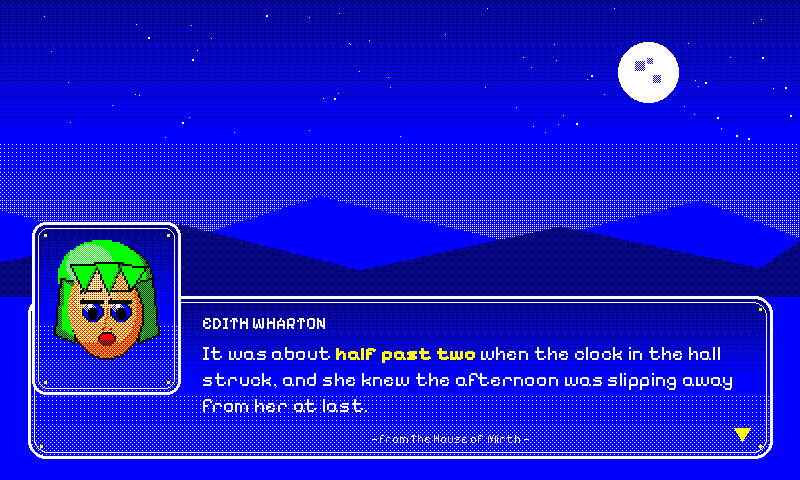
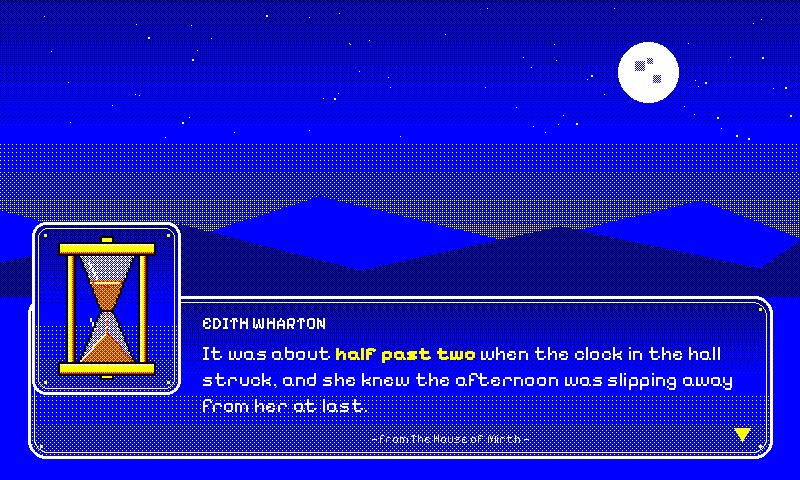
Replace chrono portrait with a shaded hourglass
A hand-built frontal face never reads as SNES on a 6-ink panel. Swap the
portrait for an ornate, shaded hourglass: thematically exact for chrono
(= time) and geometric, so it renders cleanly while the tonal-dither
ramps do real work. Brass frame (cream/gold/bronze Y+W / Y / R+Y) with
finials + shaded side posts, sky-tinted glass bulbs with specular
streaks, and amber sand draining from a dished surface through the neck
onto a mound in the lower bulb. Same shape-sculpt + dither-map engine,
renamed face->hourglass (_CHRONO_ART_TONES / _chrono_build_hourglass /
_chrono_paint_hourglass). CLAUDE.md + chrono preview regenerated.

https://claude.ai/code/session_015AgeG1R44o6rjtc71p48wz

Changed region(s): [[0.0625, 0.4688, 0.2188, 0.8125]]

diff --git a/idle_hours/render_quote.py b/idle_hours/render_quote.py
@@ -14868,37 +14868,32 @@ def render_questline_frame(time_str: str, quote_row: dict, width: int, height: i
 # carries the time. ("chrono" = time; the SNES Square-JRPG era is also the
 # Chrono Trigger era, so the name doubles as the literary-clock tie.)
 
-# Portrait face — a shaded 16-bit anime hero the way an FF6 / Chrono Trigger
-# cutscene frames the speaker beside the dialogue. It is *not* a flat
-# one-ink-per-pixel sprite (that reads as 8-bit, which is questline's job);
-# instead each material carries a multi-tone shading ramp synthesised from the
-# six inks via per-pixel dithering — skin highlight→mid→shadow, hair
-# highlight→mid→shadow — so the head reads as a rounded, lit volume. The face
-# is sculpted with vector shapes at a low logical resolution (see
-# `_chrono_build_face`), drawn into a tone-indexed 'L' image, then upscaled and
-# mapped to its dithered Spectra-6 tones at panel resolution.
+# Portrait motif — an ornate hourglass, the "portrait" an FF6 / Chrono Trigger
+# cutscene frames beside the dialogue. A hand-built frontal face reads as crude
+# on a 6-ink panel; an hourglass is geometric (renders cleanly), is
+# thematically exact for `chrono` (= time), and lets the tonal-dither trick do
+# real work: each material carries a multi-tone shading ramp synthesised from
+# the six inks so the brass, glass and sand read as rounded, lit volumes rather
+# than flat shapes. Sculpted with vector shapes at a low logical resolution
+# (see `_chrono_build_hourglass`), drawn into a tone-indexed 'L' image, then
+# upscaled and dither-mapped to its Spectra-6 tones at panel resolution.
 #
 # Tone index → fill rule. "solid" = one ink; "mix2"/"mix3" = ordered-Bayer
-# dithers (the same recipes documented in spectra6_color_recipes.md): peach
-# skin (R+Y+W), tan/maroon skin shadow (R+Y / R+K), mint/green/forest hair
-# (G+W / G / G+K), sky-blue iris highlight (B+W), maroon lip shadow (R+K).
-_CHRONO_FACE_TONES = {
-    1: ("solid", SPECTRA6["black"]),
-    2: ("mix3", SPECTRA6["red"], SPECTRA6["yellow"], SPECTRA6["white"], 0.22, 0.30),  # skin highlight
-    3: ("mix3", SPECTRA6["red"], SPECTRA6["yellow"], SPECTRA6["white"], 0.40, 0.38),  # skin mid (peach)
-    4: ("mix2", SPECTRA6["red"], SPECTRA6["yellow"], 0.40),                           # skin shadow (tan)
-    5: ("mix2", SPECTRA6["red"], SPECTRA6["black"], 0.5),                             # skin deep (maroon)
-    6: ("mix2", SPECTRA6["green"], SPECTRA6["white"], 0.5),                           # hair highlight (mint)
-    7: ("solid", SPECTRA6["green"]),                                                  # hair mid
-    8: ("mix2", SPECTRA6["green"], SPECTRA6["black"], 0.5),                           # hair shadow (forest)
-    9: ("solid", SPECTRA6["white"]),                                                  # sclera / catch-light
-    10: ("solid", SPECTRA6["blue"]),                                                  # iris
-    11: ("mix2", SPECTRA6["blue"], SPECTRA6["white"], 0.5),                           # iris highlight (sky)
-    12: ("solid", SPECTRA6["red"]),                                                   # lips
-    13: ("mix2", SPECTRA6["red"], SPECTRA6["black"], 0.5),                            # lip shadow (maroon)
+# dithers (the recipes in spectra6_color_recipes.md): cream/gold/bronze brass
+# (Y+W / Y / R+Y), amber sand (R+Y at varying density), sky-tint glass (B+W).
+_CHRONO_ART_TONES = {
+    1: ("solid", SPECTRA6["black"]),                          # outline
+    2: ("mix2", SPECTRA6["yellow"], SPECTRA6["white"], 0.55),  # brass highlight (cream)
+    3: ("solid", SPECTRA6["yellow"]),                         # brass mid (gold)
+    4: ("mix2", SPECTRA6["red"], SPECTRA6["yellow"], 0.25),    # brass shadow (bronze)
+    5: ("mix2", SPECTRA6["yellow"], SPECTRA6["white"], 0.6),   # sand highlight (pale)
+    6: ("mix2", SPECTRA6["red"], SPECTRA6["yellow"], 0.38),    # sand mid (amber)
+    7: ("mix2", SPECTRA6["red"], SPECTRA6["yellow"], 0.20),    # sand shadow (deep amber)
+    8: ("mix2", SPECTRA6["blue"], SPECTRA6["white"], 0.55),    # glass tint (sky)
+    9: ("solid", SPECTRA6["white"]),                          # specular highlight
 }
-_CHRONO_FACE_SIZE = (58, 70)  # logical pixels before upscale
-_CHRONO_FACE_SCALE = 2        # → 116×140 px on the panel
+_CHRONO_ART_SIZE = (56, 72)  # logical pixels before upscale
+_CHRONO_ART_SCALE = 2        # → 112×144 px on the panel
 
 _CHRONO_SKY_BOTTOM = 296
 _CHRONO_WINDOW = (28, 296, 772, 458)
@@ -14906,8 +14901,8 @@ _CHRONO_PORTRAIT = (32, 222, 180, 394)
 
 
 def _chrono_tone_color(idx: int, x: int, y: int):
-    """Resolve a face tone index to its Spectra-6 (possibly dithered) colour."""
-    rule = _CHRONO_FACE_TONES[idx]
+    """Resolve an art tone index to its Spectra-6 (possibly dithered) colour."""
+    rule = _CHRONO_ART_TONES[idx]
     kind = rule[0]
     if kind == "solid":
         return rule[1]
@@ -14919,65 +14914,65 @@ def _chrono_tone_color(idx: int, x: int, y: int):
     return ink_a if cell < round(da * 16) else (ink_b if cell < round((da + db) * 16) else ink_c)
 
 
-def _chrono_build_face() -> Image.Image:
-    """Sculpt the head as a tone-indexed ('L') logical image (light upper-left).
+def _chrono_build_hourglass() -> Image.Image:
+    """Sculpt an ornate hourglass as a tone-indexed ('L') logical image.
 
-    A shaded sphere for the skin (shadow base → mid offset up-left → highlight),
-    layered hair (shadow/mid/highlight dome + side locks), anime eyes (sclera,
-    iris, iris highlight, pupil, catch-light, lash, brow), a small shaded mouth,
-    and a tidy three-lock fringe. The caller upscales and dither-maps the tones.
+    A brass frame (capped top/bottom with finials + two shaded side posts), two
+    sky-tinted glass bulbs with specular streaks, and amber sand — draining from
+    a dished surface in the upper bulb, through the neck as a thin stream, onto a
+    mound in the lower bulb. Light from the upper-left (cream highlights up-left,
+    bronze / deep-amber shadows down-right). The caller upscales + dither-maps.
     """
-    lw, lh = _CHRONO_FACE_SIZE
+    lw, lh = _CHRONO_ART_SIZE
     img = Image.new("L", (lw, lh), 0)
     d = ImageDraw.Draw(img)
     K = 1
-    # Hair back: shaded dome + side locks.
-    d.ellipse((6, 2, 52, 40), fill=8, outline=K)
-    d.ellipse((5, 1, 48, 36), fill=7)
-    d.ellipse((9, 3, 32, 24), fill=6)
-    d.polygon([(6, 20), (3, 48), (13, 52), (15, 22)], fill=8, outline=K)
-    d.polygon([(8, 22), (7, 45), (12, 48), (13, 24)], fill=7)
-    d.polygon([(52, 20), (55, 48), (45, 52), (43, 22)], fill=8, outline=K)
-    # Face: shaded sphere (shadow base → mid up-left → highlight up-left).
-    d.ellipse((11, 16, 47, 60), fill=4, outline=K)
-    d.ellipse((10, 14, 43, 55), fill=3)
-    d.ellipse((14, 18, 33, 41), fill=2)
-    d.chord((15, 34, 43, 58), 25, 150, fill=4)  # under-chin shadow
-    # Nose: a soft shadow + two nostril marks.
-    d.line((29, 35, 28, 44), fill=4, width=1)
-    d.point((27, 45), fill=5)
-    d.point((31, 45), fill=5)
-    # Eyes.
-    for ex in (22, 36):
-        d.ellipse((ex - 5, 32, ex + 5, 41), fill=9, outline=K)  # sclera
-        d.ellipse((ex - 4, 32, ex + 4, 41), fill=10)            # iris
-        d.ellipse((ex - 4, 32, ex + 1, 37), fill=11)            # iris highlight
-        d.ellipse((ex - 2, 35, ex + 2, 40), fill=1)             # pupil
-        d.rectangle((ex - 2, 33, ex - 1, 34), fill=9)           # catch-light
-        d.line((ex - 5, 31, ex + 5, 31), fill=K, width=2)       # upper lash
-        d.line((ex - 5, 30, ex - 6, 32), fill=K, width=1)       # outer corner
-        d.line((ex - 6, 26, ex + 4, 25), fill=K, width=2)       # brow
-    # Mouth.
-    d.ellipse((25, 47, 33, 52), fill=12, outline=K)
-    d.chord((25, 49, 33, 53), 0, 180, fill=13)
-    # Fringe: three clean bang-locks with shadowed right edges + a dome shine.
-    d.polygon([(11, 13), (25, 13), (18, 27)], fill=7, outline=K)
-    d.polygon([(23, 12), (37, 12), (30, 28)], fill=7, outline=K)
-    d.polygon([(35, 13), (49, 14), (41, 26)], fill=7, outline=K)
-    d.line((24, 14, 18, 26), fill=8, width=1)
-    d.line((36, 13, 30, 27), fill=8, width=1)
-    d.line((11, 6, 22, 4), fill=6, width=2)
+    top_bulb = [(14, 9), (42, 9), (31, 37), (25, 37)]
+    bot_bulb = [(25, 37), (31, 37), (42, 63), (14, 63)]
+    # Glass bulbs (sky tint).
+    d.polygon(top_bulb, fill=8)
+    d.polygon(bot_bulb, fill=8)
+    # Sand: dished surface in the upper bulb, a mound in the lower, a thin stream.
+    d.polygon([(20, 22), (36, 22), (31, 37), (25, 37)], fill=6)
+    d.line((20, 22, 28, 25), fill=7, width=1)
+    d.line((36, 22, 28, 25), fill=7, width=1)
+    d.line((22, 23, 34, 23), fill=5, width=1)
+    d.polygon([(14, 63), (42, 63), (28, 48)], fill=6)
+    d.line((28, 48, 15, 62), fill=5, width=1)
+    d.line((29, 49, 41, 62), fill=7, width=1)
+    d.line((28, 37, 28, 48), fill=6, width=1)
+    d.point((28, 41), fill=5)
+    d.point((28, 45), fill=5)
+    # Glass specular streaks (upper-left of each bulb).
+    d.line((19, 13, 23, 21), fill=9, width=1)
+    d.point((20, 23), fill=9)
+    d.line((20, 41, 22, 46), fill=9, width=1)
+    # Glass outline.
+    d.polygon(top_bulb, outline=K)
+    d.polygon(bot_bulb, outline=K)
+    # Brass side posts (cream highlight left, bronze shadow right).
+    for px0, px1 in ((8, 12), (44, 48)):
+        d.rectangle((px0, 8, px1, 64), fill=3, outline=K)
+        d.line((px0 + 1, 9, px0 + 1, 63), fill=2, width=1)
+        d.line((px1 - 1, 9, px1 - 1, 63), fill=4, width=1)
+    # Brass caps (cream highlight top, bronze shadow bottom) + finials.
+    for cy0, cy1 in ((3, 9), (63, 69)):
+        d.rectangle((4, cy0, 52, cy1), fill=3, outline=K)
+        d.line((5, cy0 + 1, 51, cy0 + 1), fill=2, width=1)
+        d.line((5, cy1 - 1, 51, cy1 - 1), fill=4, width=1)
+    d.rectangle((25, 0, 31, 3), fill=3, outline=K)
+    d.rectangle((25, 69, 31, 71), fill=3, outline=K)
     return img
 
 
-def _chrono_paint_face(image: Image.Image, ox: int, oy: int) -> None:
-    """Upscale the logical face and paint it at (ox, oy), dither-mapping tones.
+def _chrono_paint_hourglass(image: Image.Image, ox: int, oy: int) -> None:
+    """Upscale the logical hourglass and paint it at (ox, oy), dither-mapping tones.
 
     The dither is sampled at absolute panel coordinates so the synthesised
-    skin/hair tones share a continuous Bayer phase with the rest of the frame.
+    brass / sand / glass tones share a continuous Bayer phase with the frame.
     """
-    big = _chrono_build_face().resize(
-        (_CHRONO_FACE_SIZE[0] * _CHRONO_FACE_SCALE, _CHRONO_FACE_SIZE[1] * _CHRONO_FACE_SCALE),
+    big = _chrono_build_hourglass().resize(
+        (_CHRONO_ART_SIZE[0] * _CHRONO_ART_SCALE, _CHRONO_ART_SIZE[1] * _CHRONO_ART_SCALE),
         Image.NEAREST,
     )
     bw, bh = big.size
@@ -15116,15 +15111,15 @@ def _chrono_window_border(draw: ImageDraw.ImageDraw, rect: tuple[int, int, int, 
 
 
 def _chrono_paint_portrait(image: Image.Image, draw: ImageDraw.ImageDraw) -> None:
-    """Character-portrait sub-window (a smaller FF window) with the shaded face."""
+    """Portrait sub-window (a smaller FF window) holding the shaded hourglass."""
     rect = _CHRONO_PORTRAIT
     _chrono_window_fill(image, rect, radius=14)
     _chrono_window_border(draw, rect, radius=14)
-    face_w = _CHRONO_FACE_SIZE[0] * _CHRONO_FACE_SCALE
-    face_h = _CHRONO_FACE_SIZE[1] * _CHRONO_FACE_SCALE
+    art_w = _CHRONO_ART_SIZE[0] * _CHRONO_ART_SCALE
+    art_h = _CHRONO_ART_SIZE[1] * _CHRONO_ART_SCALE
     cx = (rect[0] + rect[2]) // 2
     cy = (rect[1] + rect[3]) // 2
-    _chrono_paint_face(image, cx - face_w // 2, cy - face_h // 2)
+    _chrono_paint_hourglass(image, cx - art_w // 2, cy - art_h // 2)
 
 
 def _chrono_paint_dialogue(image: Image.Image, draw: ImageDraw.ImageDraw, quote_row: dict, rect: tuple[int, int, int, int]) -> None:

diff --git a/CLAUDE.md b/CLAUDE.md
@@ -559,7 +559,7 @@ Imports `pick_quote` in-process (`pick_quote_module.select_quote`) and lays out 
   - `cartograph` (cream-washed white / black IM Fell English Italic body / red matched-phrase, hand-drawn antique cartographer's chart — a literary-layout theme with a heavy `draw_cartograph_border` decoration rather than a custom-render frame. White-paper ground warmed by a cream Y+W Bayer Layer-0 wash plus a sparse R+G sepia foxing scatter (the same two-pass aged-paper recipe `newsprint` / `tarot` use, here over cream); two diagonal-corner coastline silhouettes in R+G sepia (a 26-vertex two-octave ragged edge — a slow swell carving broad bays / headlands plus a fast jitter for the fractal nibble of a real engraved shoreline, so the land reads as a coastline with inlets and capes rather than a smooth filled triangle; each landmass also carries interior **topographic form-lines** — real terrain relief traced as marching-squares iso-lines over a synthetic height field (3–4 deterministic Gaussian hills + basins summed across the land's bbox, contoured at six evenly-spaced elevation levels), with each marching-squares cell skipped unless its centre falls inside the land silhouette (`_point_in_polygon`), so the contours stay on the sepia landmass and read as the wavy multi-peak nested loops of a real topographic chart rather than concentric copies of the coastline — painted in black so the red→green sepia post-pass leaves them as crisp engraved relief lines over the land fill), a 32-px R+Y tangerine compass rose at the bottom-left, a small black sea-serpent margin doodle ("here be dragons"), three hand-lettered italic Latin place labels in sepia, and a `clear_rect` knockout of the body region to a clean cream cartouche with a doubled red+black rubricated rule and registration-cross corner accents (the same knockout `kanagawa` / `blueprint` use). The matched phrase picks IM Fell *Regular* (upright Roman) in solid red so differentiation arrives via colour + roman/italic split rather than weight — the canonical "place name upright, body legend italic" cartographic convention. Completes the navigation trio alongside `firmament` (celestial atlas) and `astrarium` (instrument dashboard). Saturation tier `0.5`.)
   - `vitrail` (jewel-glass field / black lead-came / clear white-glass quote cartouche, Gothic stained-glass cathedral window — the sixth theme to bypass the literary layout entirely, dispatching from `render` into its own `render_vitrail_frame`. The "take full advantage of the hardware" theme: a tall lancet window whose black lead-came tracery (`_vitrail_paint_lead_came`) divides the canvas into an irregular hand-leaded mosaic of jewel-toned glass shapes that deliberately exercise the FULL synthesised Spectra-6 palette — the four saturated native inks plus amber/gold (R+Y 5/8:3/8 tangerine), royal purple (R+B 1:1), teal (G+B 5/8:3/8), plum (R+B+K 3-ink), lavender (R+B+W 3-ink), rose/coral (R+W), sky-blue (B+W), olive (Y+G), mint (G+W), navy (B+K) and forest (G+K) — drawn deterministically from the module-level `_VITRAIL_GLASS` spec list. `_vitrail_build_panes` starts from a 6×5 lattice, pins the border vertices to the frame but nudges every interior vertex off-grid by a seeded RNG (`_VITRAIL_SEED` / `_VITRAIL_JITTER`), then splits ≈half the cells (`_VITRAIL_SPLIT_PROB`) along one diagonal into two triangular shards with different tones — so the field reads as varied quadrilaterals and triangles rather than a regular grid. Each shape is filled via `_vitrail_fill_polygon` (a 1-bit polygon mask + the per-pixel `_vitrail_pane_ink`, whose solid / 2-ink / 3-ink branches mirror `_fill_swatch_stipple` / `_fill_swatch_stipple_3way` against absolute x/y so the Bayer phase stays continuous across seams), and `_vitrail_paint_lead_came` then strokes every shape's closed outline as a *beveled raised bar* — three offset passes per seam (white specular highlight offset up-left = the lit top of the rounded lead, black drop shadow offset down-right = the shadow the raised bar casts onto the recessed glass, black core last) modelling light from the upper-left, so the came reads as a physical 3D frame standing proud of the glass rather than flat lines (`_VITRAIL_CAME_BEVEL` sets the offset). The outer stone surround (`_vitrail_paint_outer_frame`) and the central cartouche frame carry the same lit-top-left / shadowed-bottom-right lip so the clear glass reads as recessed behind raised lead. `_vitrail_paint_shimmer` then sweeps a couple of diagonal specular sheen bands across the filled glass (white stippled in at a Bayer density peaking on each band's centreline and tapering to its edges, skipping black/white pixels) so the panes read as a glossy reflective surface catching light rather than flat colour fields — the field-wide pass runs before the came / cartouche so those paint cleanly over it, and a second clipped pass re-applies the *same* streaks (band positions are always derived from the full window field, so they stay aligned) to the rose-window glass after the medallion is painted, so its petals catch the light continuously with the surrounding panes. A pointed lancet arch is carved into the top by filling the two top-corner spandrels black (`_vitrail_paint_arch_spandrels`); a rose-window medallion (`_vitrail_paint_rose_window`) at top-centre divides a stone-ringed glass disc into twelve jewel-tone petal wedges by radial came and carries the Roman-numeral hour (Uncial Antiqua, via the shared `_TAROT_ROMAN_NUMERALS` dict) at its clear-glass hub. The literary quote glows in a clear white-glass central cartouche (`_vitrail_paint_quote_cartouche`) knocked out of the colored field with a solid-white wipe — not a wash — so the dark Liberation Serif body and the **violet-glass matched phrase (R+B 1:1 via `draw_text_dithered`)** stay legible over the busy panes; author · title attribution sits at the cartouche foot in the same Liberation Serif body face (*not* the Uncial Antiqua ornament chain — the uncial's open letterforms shatter into ambiguous strokes at the 15px byline size after `snap_image_to_palette`, the same hairline-at-small-size failure documented for astrarium / tarot, so the attribution is rendered in the legible body serif instead). The digital HH:MM is never surfaced as plain digits — the matched phrase and the rose-window numeral carry the time. Fully deterministic (no RNG) so re-renders of a given time are byte-identical. The palette in `THEMES` is a plain white/black ground with a blue (violet-glass) accent, consumed only by the goodnight / source-card fall-through paths; the frame itself hardcodes Spectra-6 inks. Saturation tier `0.7` (the colored glass dominates the canvas; the white cartouche has no chroma to scale).)
   - `questline` (black night-sky ground / white body / yellow matched-phrase, Press Start 2P pixel face — an 8/16-bit JRPG dialogue scene, the seventh theme to bypass the literary layout entirely, dispatching from `render` into its own `render_questline_frame`. The whole composition is built from chunky pixels: a sky-blue (B+W checkerboard) sky band over a solid-green hill band with a forest-green (G+K) lower lip, a yellow eight-ray sun and two white pixel clouds in the top margin (`_questline_paint_sky`), and a small caped hero sprite — an 8×10 pixmap (`_QUESTLINE_HERO`) scaled ×7 with a red cap / white face / blue tunic / black boots, standing on the hill line at the right (`_questline_paint_sprite`). The quote is presented as **on-screen NPC dialogue** inside a bordered box owning the bottom ~45% of the canvas (`_questline_paint_box`): a navy (blue+black checkerboard) fill with a white double pixel frame (4-px outer rule + an inset inner rule, square corners — the pixel-authentic dialogue-box look, no smooth arcs). The **author becomes the speaker** on a small framed nameplate tab straddling the box's top-left edge (`_questline_paint_nameplate`, uppercased, truncated past 22 chars, yellow-on-navy; falls back to `NARRATOR` when the row has no author so a bare-text quote still gets a speaker). The body text is **left-aligned** (reads as dialogue, not centred prose) via the shared `fit_quote` / `wrap_styled_text` pipeline at `font_max=15` / `font_min=8` / `line_height_mult=1.6` — Press Start 2P reports descent 0, so the generous multiplier supplies the inter-line gap the bitmap cell omits — with the matched time-phrase painted in the `accent` yellow (the classic RPG "highlighted keyword" tint; solid, no stipple reroute needed). A static white ▼ "press to continue" arrow sits in the box's bottom-right (`_questline_paint_arrow`, static — eInk), and a `— from {Title} —` footer runs along the box's bottom inner margin (`_questline_paint_footer`, centred, size 8, truncated to clear the arrow; skipped when the row has no title). Like `marquee`, the digital HH:MM is **never surfaced** — the matched phrase in the dialogue carries the time, which is the whole point of a quote-based fuzzy clock; `time_str` is `del`-asserted at the top of `render_questline_frame` and retained only for dispatch-signature uniformity. Press Start 2P (CodeMan38, OFL — the only pixel/bitmap face in the bundle) carries the body, the matched-phrase accent, and the chrome alike; single weight, so the matched-phrase role reuses Regular and earns its differentiation from the yellow accent alone (comic / dispatch / atomic discipline). Saturation tier `0.7` (dark / saturated ground). Since it still displays a quote it stays in the button-B / auto / random rotation — only `diags` (which surfaces swatches instead of a quote) is in `RANDOM_EXCLUDED_THEMES`. No `_DEBUG_LABEL_RIGHT_INSET` entry — the custom frame paints its own composition and ignores `mode`, like the other frame themes.)
-  - `chrono` (twilight-blue gradient sky / white body / yellow matched-phrase, Pixelify Sans — a **16-bit SNES JRPG** dialogue scene (Final Fantasy VI / Chrono Trigger era), the eighth theme to bypass the literary layout entirely, dispatching from `render` into its own `render_chrono_frame`. The deliberate companion / step-up to the 8-bit `questline`: where questline is flat NES bands + chunky monospace Press Start 2P, chrono shows the three things 8-bit hardware couldn't — **gradient-shaded backgrounds**, a **translucent-blue gradient dialogue window with a rounded beveled border**, and a **character portrait sub-window** — in the finer, multi-weight Pixelify Sans. `_chrono_paint_sky` paints an atmospheric twilight: a per-row Bayer **density-ramp gradient** (deep navy B+K at the zenith fading to pure blue at mid-sky, then a rising white-dither haze toward the horizon — the continuous tone flat 8-bit bands can't produce), ~70 deterministic white stars (`_CHRONO_STAR_SEED`, cleared from the moon's disc), a pale white moon with faint sky-blue (B+W) craters, and a **two-range mountain silhouette** (a solid-blue back range + a navy B+K-dithered front range via `_chrono_fill_poly`) for parallax depth. The quote sits in the iconic **FF blue window** (`_chrono_window_fill` paints a navy→blue→faint-sky-blue vertical gradient onto a private tile and pastes it through a rounded-rectangle mask so the corners read soft; `_chrono_window_border` strokes a white rounded double frame with small yellow corner-accent ticks). A **portrait sub-window** (`_chrono_paint_portrait`, same window recipe at smaller scale) carries a properly *shaded* anime character portrait — the "character portrait" a 16-bit cutscene shows beside the dialogue. Unlike questline's flat one-ink-per-pixel 8-bit sprite, the chrono face uses **multi-tone shading ramps synthesised from the six inks** (`_CHRONO_FACE_TONES`: peach skin highlight→mid→shadow via R+Y+W / R+Y / R+K, mint→green→forest hair via G+W / G / G+K, sky-blue iris highlight, maroon lip shadow) so the head reads as a rounded, lit volume rather than a flat shape. `_chrono_build_face` sculpts it with **vector shapes at a low logical resolution** (a shaded sphere for the skin — shadow base → mid offset up-left → highlight up-left — layered hair dome + side locks, anime eyes with sclera/iris/iris-highlight/pupil/catch-light/lash/brow, a small shaded mouth, a tidy three-lock fringe; light from the upper-left) drawn into a tone-indexed `L` image; `_chrono_paint_face` upscales it (NEAREST) and dither-maps each tone index to its Spectra-6 colour at absolute panel coordinates so the synthesised tones share a continuous Bayer phase with the rest of the frame. This shape-plus-dither approach is what gets the rounded SNES look out of a 6-ink panel — a flat hand-pixelled sprite cannot. `_chrono_paint_dialogue` prints the **author as a white Pixelify Sans Bold speaker-name header**, then the quote left-aligned below with the matched time-phrase in **yellow Pixelify Sans Bold** — a real weight step on top of the accent colour, the payoff of the variable font (questline's single-weight Press Start 2P differentiates on colour alone). A yellow ▼ continue arrow sits bottom-right; a white `— from {Title} —` footer runs along the window foot (a sky-blue B+W dither was tried but averaged too close to the window fill to stay legible at the footer point size). Like `questline` / `marquee`, the digital HH:MM is **never surfaced** — the matched phrase carries the time; `time_str` is `del`-asserted at the top of `render_chrono_frame`. Saturation tier `0.7` (gradient-blue ground). Stays in the button-B / auto / random rotation. No `_DEBUG_LABEL_RIGHT_INSET` entry — custom frame, ignores `mode`.)
+  - `chrono` (twilight-blue gradient sky / white body / yellow matched-phrase, Pixelify Sans — a **16-bit SNES JRPG** dialogue scene (Final Fantasy VI / Chrono Trigger era), the eighth theme to bypass the literary layout entirely, dispatching from `render` into its own `render_chrono_frame`. The deliberate companion / step-up to the 8-bit `questline`: where questline is flat NES bands + chunky monospace Press Start 2P, chrono shows the three things 8-bit hardware couldn't — **gradient-shaded backgrounds**, a **translucent-blue gradient dialogue window with a rounded beveled border**, and a **character portrait sub-window** — in the finer, multi-weight Pixelify Sans. `_chrono_paint_sky` paints an atmospheric twilight: a per-row Bayer **density-ramp gradient** (deep navy B+K at the zenith fading to pure blue at mid-sky, then a rising white-dither haze toward the horizon — the continuous tone flat 8-bit bands can't produce), ~70 deterministic white stars (`_CHRONO_STAR_SEED`, cleared from the moon's disc), a pale white moon with faint sky-blue (B+W) craters, and a **two-range mountain silhouette** (a solid-blue back range + a navy B+K-dithered front range via `_chrono_fill_poly`) for parallax depth. The quote sits in the iconic **FF blue window** (`_chrono_window_fill` paints a navy→blue→faint-sky-blue vertical gradient onto a private tile and pastes it through a rounded-rectangle mask so the corners read soft; `_chrono_window_border` strokes a white rounded double frame with small yellow corner-accent ticks). A **portrait sub-window** (`_chrono_paint_portrait`, same window recipe at smaller scale) carries an ornate, *shaded* **hourglass** — the "portrait" a cutscene frames beside the dialogue, and thematically exact for `chrono` (= time). A hand-built frontal face reads as crude on a 6-ink panel; a geometric object renders cleanly and lets the tonal-dither trick do real work. The hourglass uses **multi-tone shading ramps synthesised from the six inks** (`_CHRONO_ART_TONES`: cream→gold→bronze brass via Y+W / Y / R+Y, amber sand at varying R+Y density, sky-tint glass via B+W) so the brass, glass and sand read as rounded, lit volumes rather than flat shapes. `_chrono_build_hourglass` sculpts it with **vector shapes at a low logical resolution** (a brass frame — capped top/bottom with finials + two shaded side posts — two sky-tinted glass bulbs with specular streaks, and amber sand draining from a dished surface in the upper bulb through the neck as a thin stream onto a mound in the lower bulb; light from the upper-left) drawn into a tone-indexed `L` image; `_chrono_paint_hourglass` upscales it (NEAREST) and dither-maps each tone index to its Spectra-6 colour at absolute panel coordinates so the synthesised tones share a continuous Bayer phase with the rest of the frame. This shape-plus-dither approach is what gets the rounded SNES look out of a 6-ink panel — a flat hand-pixelled sprite cannot. (An earlier revision rendered a shaded anime face here; the geometric hourglass both reads cleaner on the panel and ties the portrait to the theme.) `_chrono_paint_dialogue` prints the **author as a white Pixelify Sans Bold speaker-name header**, then the quote left-aligned below with the matched time-phrase in **yellow Pixelify Sans Bold** — a real weight step on top of the accent colour, the payoff of the variable font (questline's single-weight Press Start 2P differentiates on colour alone). A yellow ▼ continue arrow sits bottom-right; a white `— from {Title} —` footer runs along the window foot (a sky-blue B+W dither was tried but averaged too close to the window fill to stay legible at the footer point size). Like `questline` / `marquee`, the digital HH:MM is **never surfaced** — the matched phrase carries the time; `time_str` is `del`-asserted at the top of `render_chrono_frame`. Saturation tier `0.7` (gradient-blue ground). Stays in the button-B / auto / random rotation. No `_DEBUG_LABEL_RIGHT_INSET` entry — custom frame, ignores `mode`.)
 - **Fonts.** Typography is per-theme, and each non-default theme deliberately picks a face from a different type *family* so the rendered frame's silhouette changes with the theme — not just its palette. `THEME_FONTS` maps each `THEMES` entry to a dict with `quote_regular` / `quote_bold` / `ornament` candidate chains, each a list of path strings OR `(path, variation_name)` tuples. The tuple form targets variable fonts — `load_font` calls `set_variation_by_name(name)` after the truetype load, so e.g. the scholar theme picks Regular/Bold instances from a single variable `Bitter-Variable.ttf` (whose default axis instance is Thin — a missing variation call would render near-invisible hairlines on the panel). Every per-theme chain ends at the Playfair / DejaVu defaults so a missing-font install degrades to the default face instead of dropping to the PIL bitmap fallback. System metadata / debug strips always use DejaVu / Noto / Liberation Sans regardless of theme. Install `apt install fonts-noto-core fonts-dejavu-core` if the bundled fonts aren't found. When every TTF candidate is missing, `load_font` logs a one-shot warning to stderr before returning `ImageFont.load_default()` so a misconfigured install surfaces instead of silently producing an 8-pixel bitmap render.
   - `default` and `dark` share the Playfair Display chain (transitional / high-contrast serif; repo-local `idle_hours/fonts/`, then common Pi/Linux paths, with DejaVu Serif / Liberation Serif / Noto Serif as system fallbacks).
   - `scholar` uses **Bitter** — a slab serif; even-contrast blocky terminals read as "academic textbook" and sit visually far from Playfair's display-serif silhouette, Regular body + Bold accent.
